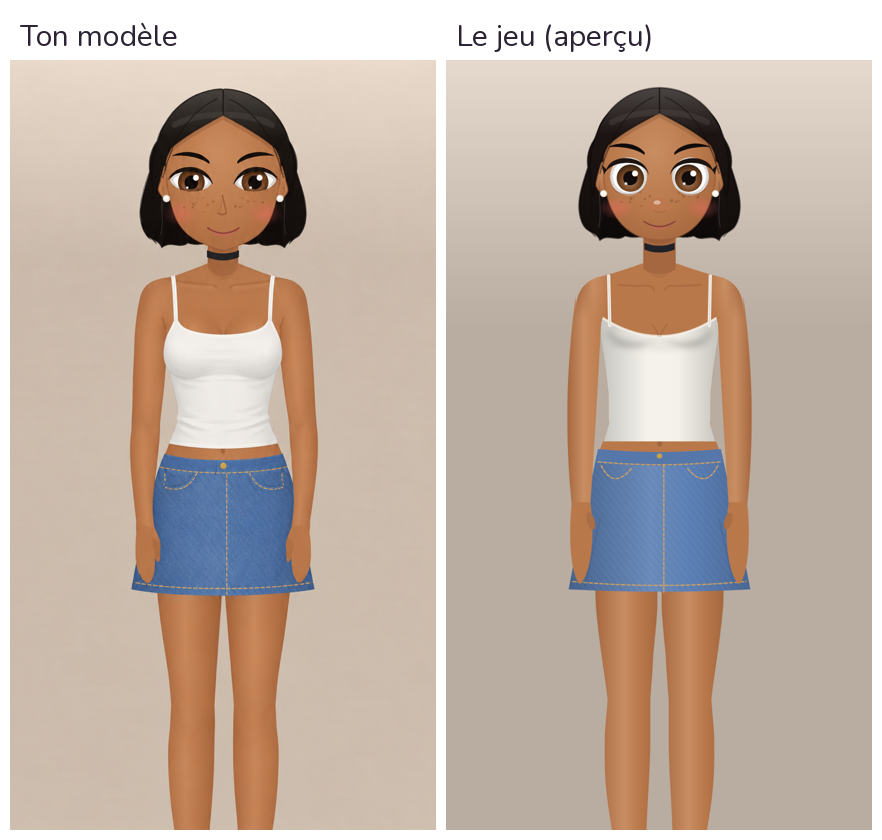
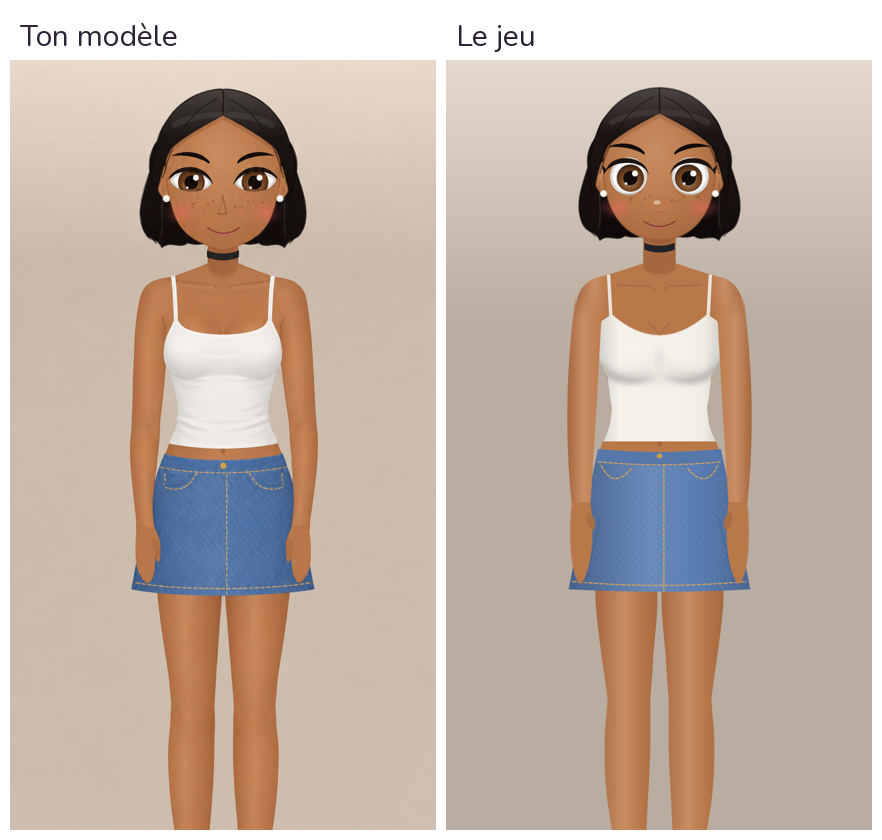
Poitrine plus pleine comme sur le modèle, éclairage de face
Le buste s'élargit dès les bretelles et se resserre sous la poitrine,
ombre sous les seins plus basse, débardeur à encolure en U entre les
bretelles, dégradé des hauts ajustés plus doux.

Claude-Session: https://claude.ai/code/session_01Vs8WE84NbYT2qCXEQSttrj

diff --git a/js/app.js b/js/app.js
@@ -231,7 +231,7 @@ const GEO={f:{SH:70,WH:50,HH:59,au:15,f:1},m:{SH:80,WH:58,HH:58,au:18,f:0},nb:{S
 const lerp=(a,b,t)=>a+(b-a)*t;
 const fx=n=>(+n).toFixed(1);
 const pts=a=>a.map(q=>fx(q[0])+','+fx(q[1])).join(' L');
-function sideX(G,y){const P=G.f?[[206,16],[214,G.SH-20],[222,G.SH-2],[234,G.SH],[266,G.SH-13],[290,G.SH-16],[318,G.WH],[348,G.WH-3],[378,G.WH-3],[392,G.WH],[402,G.HH-4],[432,G.HH],[480,G.HH-1]]:[[206,16],[214,G.SH-20],[222,G.SH-2],[234,G.SH],[266,G.SH-5],[316,G.WH+7],[372,G.WH],[432,G.HH],[480,G.HH-1]];
+function sideX(G,y){const P=G.f?[[206,16],[214,G.SH-20],[222,G.SH-2],[234,G.SH],[266,G.SH-14],[280,G.SH-14.5],[300,G.SH-13],[316,G.SH-15],[330,G.WH-2],[348,G.WH-4],[363,G.WH-6],[380,G.WH-4],[392,G.WH],[402,G.HH-4],[432,G.HH],[480,G.HH-1]]:[[206,16],[214,G.SH-20],[222,G.SH-2],[234,G.SH],[266,G.SH-5],[316,G.WH+7],[372,G.WH],[432,G.HH],[480,G.HH-1]];
  if(y<=P[0][0])return P[0][1];for(let i=1;i<P.length;i++)if(y<=P[i][0]){const [y0,x0]=P[i-1],[y1,x1]=P[i];return lerp(x0,x1,(y-y0)/(y1-y0))}return P[P.length-1][1]}
 function sidePts(G,y0,h,ext){const L=[],R=[];for(let y=y0;y<h;y+=8){const e=ext*Math.min(1,Math.max(0,(y-222)/80)),x=sideX(G,y)+e;L.push([200-x,y]);R.push([200+x,y])}const x=sideX(G,h)+ext;L.push([200-x,h]);R.push([200+x,h]);return [L,R]}
 /* profil de l'épaule (cou → bras), partagé par le corps, les bras et tous les vêtements :
@@ -246,7 +246,7 @@ function shY(G,k,x,ox){const P=shProf(G,k,ox),X=k*(x-200);if(X<=16)return 206;fo
 const profTo=(G,k,lim,ox)=>shProf(G,k,ox).filter(q=>k*(q[0]-200)<=lim+.01);
 function torsoD(G,h,ext,neck){
  ext=ext||0;neck=neck||'crew';
- if(neck==='cami'){const [L,R]=sidePts(G,266,h,ext);return `M${fx(L[0][0])},266 Q200,310 ${fx(R[0][0])},266 L${pts(R)} L${pts(L.slice().reverse())}Z`}
+ if(neck==='cami'){const [L,R]=sidePts(G,274,h,ext);return `M155,266 Q200,310 245,266 L${pts(R)} L${pts(L.slice().reverse())}Z`}
  if(neck==='off'){const [L,R]=sidePts(G,244,h,ext),sh=sideX(G,240)+ext*.3+3;return `M${fx(200-sh)},240 Q200,252 ${fx(200+sh)},240 L${pts(R)} L${pts(L.slice().reverse())}Z`}
  const [L,R]=sidePts(G,222,h,ext),sh=sideX(G,222);
  const Lf=L.filter(q=>q[1]>=244),Rf=R.filter(q=>q[1]>=244);
@@ -444,7 +444,7 @@ function body(s,p,sk,skD,skDD,skL){
  let d=`<defs><linearGradient id="${p}lm" x1="0" y1="0" x2="1" y2="0"><stop offset="0" stop-color="${skD}"/><stop offset=".45" stop-color="${skL}"/><stop offset=".7" stop-color="${sk}"/><stop offset="1" stop-color="${skD}"/></linearGradient>
  <linearGradient id="${p}lmL" x1="0" y1="0" x2="1" y2="0"><stop offset="0" stop-color="${skD}"/><stop offset=".42" stop-color="${skL}"/><stop offset="1" stop-color="${sk}"/></linearGradient><linearGradient id="${p}lmR" x1="0" y1="0" x2="1" y2="0"><stop offset="0" stop-color="${sk}"/><stop offset=".58" stop-color="${skL}"/><stop offset="1" stop-color="${skD}"/></linearGradient>
  <linearGradient id="${p}tpL" x1="0" y1="0" x2="1" y2="0"><stop offset="0" stop-color="${shade(c,-.22)}"/><stop offset=".45" stop-color="${shade(c,.06)}"/><stop offset="1" stop-color="${shade(c,-.18)}"/></linearGradient><linearGradient id="${p}tpR" x1="0" y1="0" x2="1" y2="0"><stop offset="0" stop-color="${shade(c,-.18)}"/><stop offset=".55" stop-color="${shade(c,.06)}"/><stop offset="1" stop-color="${shade(c,-.22)}"/></linearGradient>
- <linearGradient id="${p}tp" x1="0" y1="0" x2="1" y2="0"><stop offset="0" stop-color="${shade(c,-.2)}"/><stop offset=".4" stop-color="${shade(c,.08)}"/><stop offset=".65" stop-color="${c}"/><stop offset="1" stop-color="${shade(c,-.2)}"/></linearGradient>
+ <linearGradient id="${p}tp" x1="0" y1="0" x2="1" y2="0"><stop offset="0" stop-color="${shade(c,T.fit?-.13:-.2)}"/><stop offset="${T.fit?.18:.4}" stop-color="${shade(c,.06)}"/><stop offset=".65" stop-color="${c}"/><stop offset="${T.fit?.86:1}" stop-color="${shade(c,T.fit?-.02:-.2)}"/><stop offset="1" stop-color="${shade(c,T.fit?-.14:-.2)}"/></linearGradient>
  <pattern id="${p}rib" width="5" height="10" patternUnits="userSpaceOnUse"><path d="M2.5,0 V10" stroke="#000" stroke-opacity=".13" stroke-width="1.3"/></pattern>
  <pattern id="${p}cab" width="24" height="26" patternUnits="userSpaceOnUse"><path d="M6,0 C14,6 14,7 6,13 C-2,19 -2,20 6,26 M18,0 C10,6 10,7 18,13 C26,19 26,20 18,26" fill="none" stroke="#000" stroke-opacity=".15" stroke-width="2"/><path d="M12,0 V26 M0,0 V26" stroke="#000" stroke-opacity=".08" stroke-width="1"/></pattern>
  <pattern id="${p}tw2" width="5" height="5" patternUnits="userSpaceOnUse" patternTransform="rotate(-35)"><path d="M0,0 V5" stroke="#000" stroke-opacity=".08" stroke-width="1.4"/></pattern>
@@ -496,16 +496,17 @@ const SL_L=[[0,-.22],[.45,.06],[1,-.18]],SL_R=[[0,-.18],[.55,.06],[1,-.22]],TOR=
    2) un trait de contour de chaque côté : il descend le long de la manche depuis l'aisselle puis tourne vers l'intérieur sous la poitrine */
 function bustSVG(p,c,k,clip){const q=p+'bs',d=shade(c,-.5),L=lum(c),o=L>.45?1:L>.25?.8:.65,oh=L>.45?1:L>.25?.5:.2;
  /* ombre sous chaque sein : un croissant flou qui part du crochet du contour et va vers le centre */
- const cres=x=>{const m=x<200?1:-1;return `M${200-m*46},280 C${200-m*40},293 ${200-m*22},298 ${200-m*5},292 C${200-m*20},304 ${200-m*42},302 ${200-m*49},286Z`};
+ const cres=x=>{const m=x<200?1:-1;return `M${200-m*55},312 C${200-m*49},328 ${200-m*26},334 ${200-m*4},329 C${200-m*22},343 ${200-m*50},338 ${200-m*58},316Z`};
  return `<defs><clipPath id="${q}c"><path d="${clip}"/></clipPath><filter id="${q}f" x="-30%" y="-60%" width="160%" height="220%"><feGaussianBlur stdDeviation="2.6"/></filter>
- <radialGradient id="${q}h"><stop offset="0" stop-color="#fff" stop-opacity="${fx(.12*k*oh)}"/><stop offset="1" stop-color="#fff" stop-opacity="0"/></radialGradient></defs>
- <g clip-path="url(#${q}c)"><ellipse cx="178" cy="270" rx="22" ry="17" fill="url(#${q}h)"/><ellipse cx="222" cy="270" rx="22" ry="17" fill="url(#${q}h)"/>
- <g filter="url(#${q}f)" fill="${d}" opacity="${fx(.30*k*o)}"><path d="${cres(150)}"/><path d="${cres(250)}"/></g>
- <ellipse cx="200" cy="296" rx="44" ry="7" fill="${d}" opacity="${fx(.06*k*o)}" filter="url(#${q}f)"/></g>`}
+ <radialGradient id="${q}h"><stop offset="0" stop-color="#fff" stop-opacity="${fx(.12*k*oh)}"/><stop offset="1" stop-color="#fff" stop-opacity="0"/></radialGradient>
+ <radialGradient id="${q}r" cx="50%" cy="30%" r="70%"><stop offset=".62" stop-color="${d}" stop-opacity="0"/><stop offset=".92" stop-color="${d}" stop-opacity="${fx(.08*k*o)}"/><stop offset="1" stop-color="${d}" stop-opacity="0"/></radialGradient></defs>
+ <g clip-path="url(#${q}c)"><g filter="url(#${q}f)"><ellipse cx="171" cy="304" rx="29" ry="27" fill="url(#${q}r)"/><ellipse cx="229" cy="304" rx="29" ry="27" fill="url(#${q}r)"/></g><ellipse cx="174" cy="300" rx="20" ry="17" fill="url(#${q}h)"/><ellipse cx="226" cy="300" rx="20" ry="17" fill="url(#${q}h)"/>
+ <g filter="url(#${q}f)" fill="${d}" opacity="${fx(.4*k*o)}"><path d="${cres(150)}"/><path d="${cres(250)}"/></g>
+ <ellipse cx="200" cy="314" rx="3" ry="13" fill="${d}" opacity="${fx(.05*k*o)}" filter="url(#${q}f)"/><ellipse cx="200" cy="330" rx="46" ry="7" fill="${d}" opacity="${fx(.06*k*o)}" filter="url(#${q}f)"/></g>`}
 function bustLine(G,k,c,ex,y0){/* trait de contour : suit le bord intérieur de la manche puis fait un crochet sous la poitrine */
  const A=armPts(G,k),e=y=>(typeof ex==='function'?ex(y):ex||0),X=Y=>{const y=Math.max(272,236+(Y-236)/ARMK);return edge(A.I,y)-k*e(y)};
- const a=X(272),b=X(276),m=X(284);
- return LN(`M${fx(a+k*.5)},${y0} L${fx(b)},276 C${fx(b)},282 ${fx(m-k*1)},286 ${fx(m-k*6)},290`,shade(c,-.34),1.7,.5)}
+ const a=X(272),b=X(304),m=X(312);
+ return LN(`M${fx(a+k*.5)},${y0} L${fx(b)},304 C${fx(b)},310 ${fx(m-k*1)},314 ${fx(m-k*6)},318`,shade(c,-.34),1.7,.5)}
 function yokeSVG(G,p,sk,yBot,fade){
  const skD=mix(sk,'#5a2412',.2),skL=mix(sk,'#ffd9b8',.22),skDD=mix(sk,'#3a140a',.4);
  const side=k=>{const sx=200+k*(G.SH-9),ox=sx+k*G.au,A=armPts(G,k),ob=edge(A.O,yBot);
@@ -553,8 +554,8 @@ function topSVG(G,T,s,p,K){
  else if(T.neck==='deepv')o+=LN('M185,217 L200,294 L215,217',dk,2.4,.7);
  else if(T.neck==='cardi'){o+=LN('M185,217 L200,330 M215,217 L200,330',dk,4,.5)+LN(`M200,330 L200,${h}`,dk,1.5,.5);for(let y=346;y<h-14;y+=34)o+=`<circle cx="205" cy="${y}" r="4.2" fill="${shade(c,-.4)}"/>`;
   [-1,1].forEach(k=>{o+=`<path d="M${200+k*16},${h-78} L${200+k*50},${h-78} L${200+k*50},${h-30} L${200+k*16},${h-30}Z" fill="none" stroke="${dk}" stroke-width="2" opacity=".45"/>`})}
- else if(T.neck==='cami')o+=LN(`M${fx(200-sideX(G,266))},266 Q200,310 ${fx(200+sideX(G,266))},266`,lt,2.4,.8);
- if(G.f&&T.neck==='cami')o+=LN('M193,276 Q198,282 199,288 M207,276 Q202,282 201,288',skDD,1.4,.28);
+ else if(T.neck==='cami')o+=LN('M155,266 Q200,310 245,266',lt,2.4,.8);
+ if(G.f&&T.neck==='cami')o+=LN('M190,274 Q197,280 200,287 M210,274 Q203,280 200,287',skDD,1.8,.24);
  else if(T.neck!=='asym'&&!T.collar&&!T.turtle)o+=LN('M185,217 Q200,231 215,217',dk,3,.6);
  if(T.neck==='asym')o+=LN(`M185,217 Q${fx(200+30)},246 ${fx(200+sideX(G,272))},272`,dk,2.4,.6);
  if(T.collar){const cc=T.zip?shade(c,-.1):lt;o+=`<path d="M184,204 L200,228 L190,244 L172,214Z" fill="${cc}"/><path d="M216,204 L200,228 L210,244 L228,214Z" fill="${cc}"/>`;
@@ -566,7 +567,7 @@ function topSVG(G,T,s,p,K){
  if(T.bib){const b=s.bottomColor,bd=shade(b,-.3);o+=`<path d="M166,300 L234,300 L240,410 L160,410Z" fill="${b}"/><path d="M180,320 L220,320 L220,354 L180,354Z" fill="none" stroke="#d6a35c" stroke-width="1.4" stroke-dasharray="3 2"/>`+LN('M170,302 L158,218 M230,302 L242,218',b,9)+LN('M170,302 L158,218 M230,302 L242,218','#d6a35c',1.2,.9,'3 2')+`<circle cx="170" cy="304" r="4.5" fill="#c8a24a"/><circle cx="230" cy="304" r="4.5" fill="#c8a24a"/>`+LN('M166,300 L234,300',bd,2,.4)}
  if(T.band)o+=hemBand(h,T.neck==='off'?lt:shade(c,-.06),T.ext);
  if(h<390&&!T.band)o+=LN(`M${fx(200-sideX(G,h))},${h-3} L${fx(200+sideX(G,h))},${h-3}`,dk,3,.4);
- const stD=`M154,277 L153,${fx(shY(G,-1,153)+1.5)} M246,277 L247,${fx(shY(G,1,247)+1.5)}`,camiStraps=LN(stD,c,3)+LN(stD,dk,1,.35),hasJk=!!(s.jacket&&JK[s.jacket]);
+ const stD=`M155,267 L153,${fx(shY(G,-1,153)+1.5)} M245,267 L247,${fx(shY(G,1,247)+1.5)}`,camiStraps=LN(stD,c,3)+LN(stD,dk,1,.35),hasJk=!!(s.jacket&&JK[s.jacket]);
  if(T.neck==='cami'&&hasJk)o+=camiStraps;
  o+=J.torso;
  if(T.neck!=='off'&&T.neck!=='asym')o+=arms();

diff --git a/sw.js b/sw.js
@@ -2,7 +2,7 @@
    Stratégie : on répond tout de suite avec la copie en cache, et on la met à jour en arrière-plan
    (les modifications apparaissent donc au lancement suivant).
    Nouveau fichier dans le jeu (image, script…) : l'ajouter à FICHIERS et augmenter VERSION. */
-const VERSION = 'v8';
+const VERSION = 'v9';
 const CACHE = 'lycee-' + VERSION;
 const FICHIERS = [
   './', 'index.html', 'manifest.webmanifest',

diff --git a/CLAUDE.md b/CLAUDE.md
@@ -61,6 +61,7 @@ Dans claude.ai, les réponses des camarades venaient de `window.claude.use('samp
 - Fidélité à **ses** images de référence (`docs/references/`), traits et ombres compris. Elle signale vite ce qui n'est pas fidèle ; corriger précisément ce qu'elle montre.
 - Ses images sont générées par elle : pas de problème de droits. En revanche **ne jamais recopier ni intégrer d'images de banques d'images** (Shutterstock, etc.) ; proposer une création originale ou lui demander sa propre image.
 - Les images qu'elle fournit (ex. chambres) s'intègrent **telles quelles** (juste recadrées, étiquettes retirées).
+- **Forme du corps = `docs/references/personnage-style-realiste.png`** (silhouette mesurée point par point : `BODY_K`, `GEO`, `sideX`, `shProf`, `armPts`, `legD`, `handD`, `bustSVG`). Pour vérifier, superposer le rendu sur l'image (tête alignée : 2,163 px par unité, centre x = 427, menton y = 560).
 - Épaules arrondies et reliées au corps, sur toutes les tenues. Poitrine : trait qui descend de l'aisselle puis tourne sous la poitrine + ombre douce dessous.
 - Cheveux crépus : contours et ombres seulement, pas de boucles ni de vagues dessinées. Pas de trou entre la tête et les cheveux.
 - Catalogues de vêtements séparés filles / garçons.
